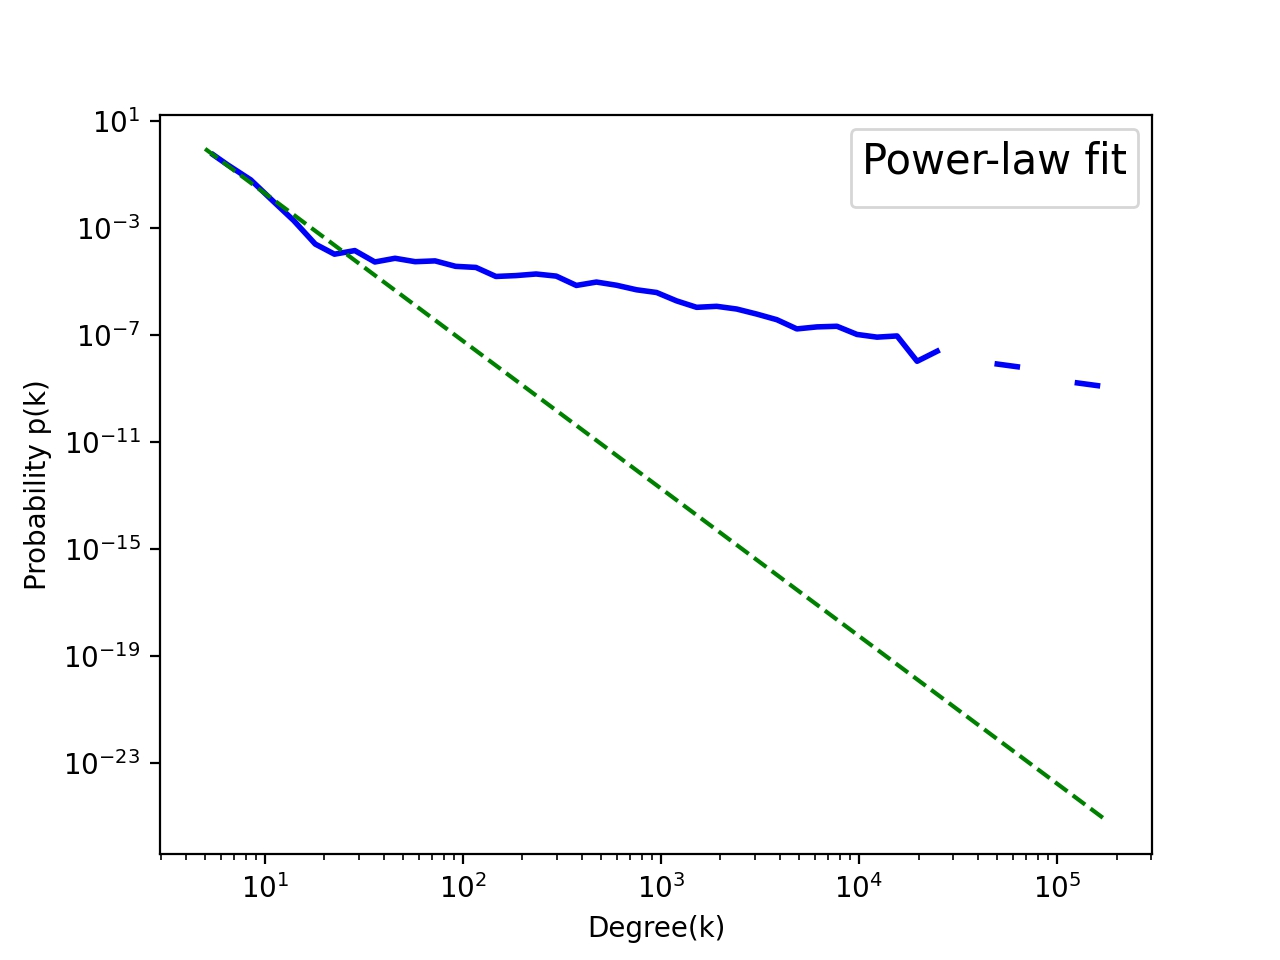
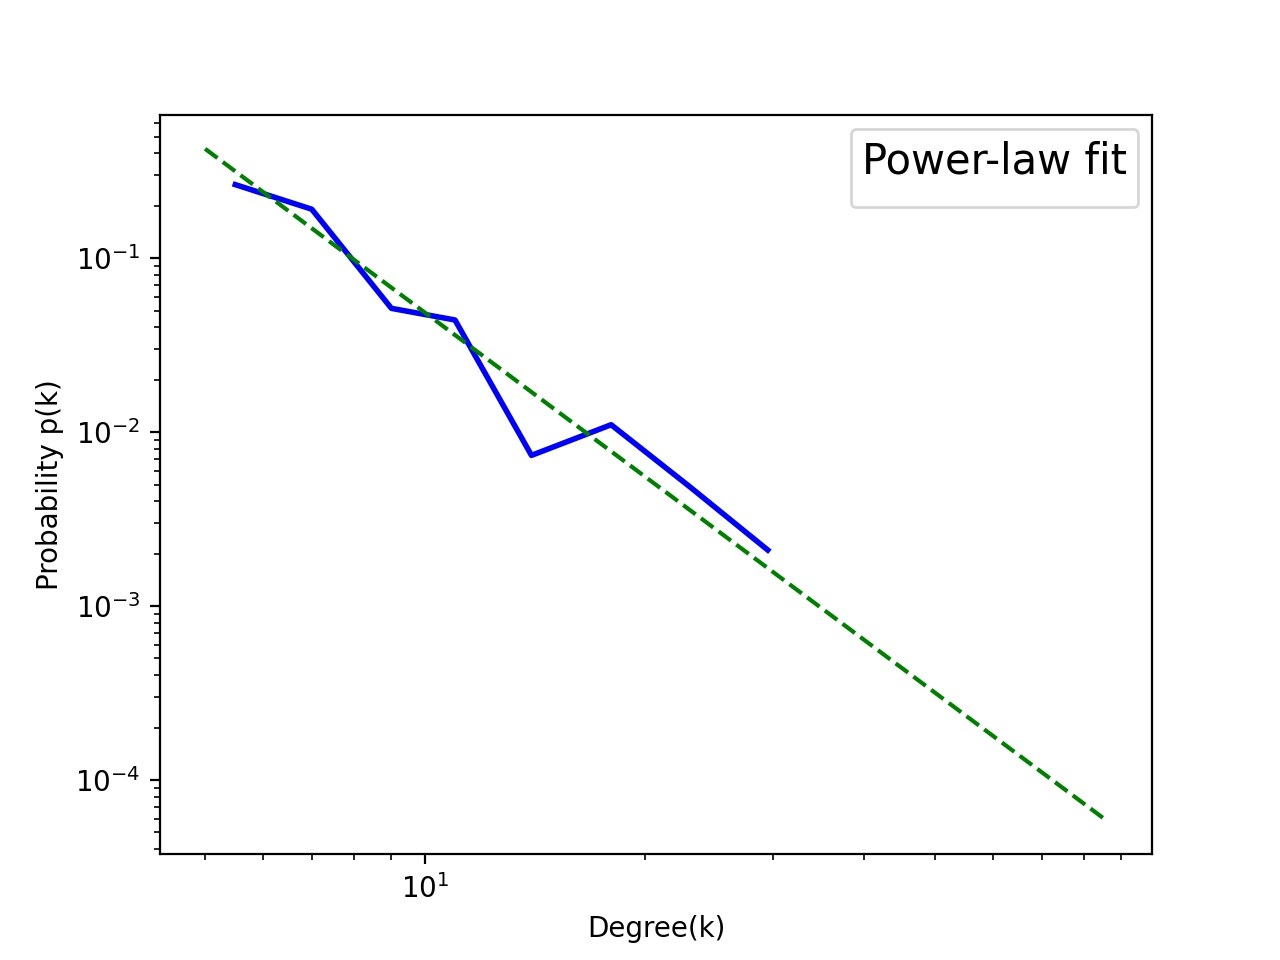
added power law

diff --git a/degree/printCharts.py b/degree/printCharts.py
@@ -6,7 +6,7 @@ import powerlaw # Power laws are probability distributions with the form:p(x)∝
 from degree.histogram import generateDegreeHistogram
 
 
-def printHistograms(G):
+def printHistograms(G, auth, app):
     print("Creating histogram...")
 
     degree_freq_app = generateDegreeHistogram(G, "app")
@@ -29,41 +29,53 @@ def printHistograms(G):
     plt.savefig("degree/histogram_author.jpg", dpi=200, pil_kwargs={'quality': 100})
     plt.close()
 
-    m, b, r_value, p_value, std_err = stats.linregress(degrees, degree_freq_app)
-    print("slope: "+str(m))
-    print("r-squared: "+str(r_value**2))
-    print("intercept:"+ str(b))
-    plot3 = plt.figure(figsize=(12, 8))
-    plt.plot(degrees, degree_freq_app, 'o',color = 'r')
-    abline_values = [m * i + b for i in degrees]
-    plt.plot(degrees, abline_values)
-    title = "Power-law distribution with -α = "+str(-1*m)
-    plt.legend(title=title, fontsize=10, title_fontsize=15)
-    plt.savefig("degree/power.jpg", dpi=200, pil_kwargs={'quality': 100})
-
-    degree_sequence = sorted([d for n, d in G.degree()], reverse=True)  # used for degree distribution and powerlaw test
-    plt.close()
-    fit = powerlaw.Fit(degree_sequence)
-    plot4 = fit.plot_pdf(color='b', linewidth=2)
-    fit.power_law.plot_pdf(color='g', linestyle='--', ax=plot4)
-    plt.legend(title="Power-law fit", fontsize=10, title_fontsize=15)
+    jaime = sorted([d for n, d in G.degree() if n in app])
+    plot6 = plt.figure(figsize=(12, 8))
+    degree_sequence = sorted([d for d in degrees], reverse=True)  # used for degree distribution and powerlaw test
+    fit = powerlaw.Fit(jaime, xmin=1)
+    fig2 = fit.plot_pdf(color='b', linewidth=2)
+    fit.power_law.plot_pdf(color='g', linestyle='--', ax=fig2)
+    plt.legend(title="Power-law fit Apps", fontsize=10, title_fontsize=15)
     plt.xlabel('Degree(k)')
     plt.ylabel('Probability p(k)')
-    plt.savefig("degree/power2.jpg", dpi=200, pil_kwargs={'quality': 100})
-    # compare
-    # where R is the likelihood ratio between the two candidate distributions. This number will be positive if the data is more likely in the first distribution, but you should also check p < 0.05
-    R, p = fit.distribution_compare('power_law', 'exponential', normalized_ratio=True)
-    print(R, p)
+    plt.savefig("degree/power_app.jpg", dpi=200, pil_kwargs={'quality': 100})
     plt.close()
 
-    plot5 = plt.figure(figsize=(10, 6))
-    fit.distribution_compare('power_law', 'log normal')
-    fig4 = fit.plot_ccdf(linewidth=3, color='black')
-    fit.power_law.plot_ccdf(ax=fig4, color='r', linestyle='--',label='Power-law')  # powerlaw
-    fit.lognormal.plot_ccdf(ax=fig4, color='g', linestyle='--',label='log normal')  # lognormal
-    fit.stretched_exponential.plot_ccdf(ax=fig4, color='b', linestyle='--',label='Exponential')  # stretched_exponential
+    jaime = sorted([d for n, d in G.degree() if n in auth])
+    plot7 = plt.figure(figsize=(12, 8))
+    degree_sequence = sorted([d for d in degrees], reverse=True)  # used for degree distribution and powerlaw test
+    fit = powerlaw.Fit(jaime, xmin=1)
+    fig2 = fit.plot_pdf(color='b', linewidth=2)
+    fit.power_law.plot_pdf(color='g', linestyle='--', ax=fig2)
+    plt.legend(title="Power-law fit Authors", fontsize=10, title_fontsize=15)
     plt.xlabel('Degree(k)')
     plt.ylabel('Probability p(k)')
-    plt.legend(plot5[:3], ['Power-law', 'log normal', 'Exponential'])
-    plt.savefig("degree/power3.jpg", dpi=200, pil_kwargs={'quality': 100})
+    plt.savefig("degree/power_auth.jpg", dpi=200, pil_kwargs={'quality': 100})
+    plt.close()
+
+    # degree_sequence = sorted([d for d in degree_freq_auth], reverse=True)  # used for degree distribution and powerlaw test
+    # plt.close()
+    # fit = powerlaw.Fit(degree_sequence)
+    # plot7 = fit.plot_pdf(color='b', linewidth=2)
+    # fit.power_law.plot_pdf(color='g', linestyle='--', ax=plot4)
+    # plt.legend(title="Power-law fit Author", fontsize=10, title_fontsize=15)
+    # plt.xlabel('Degree(k)')
+    # plt.ylabel('Probability p(k)')
+    # plt.savefig("degree/power_author.jpg", dpi=200, pil_kwargs={'quality': 100})
+    # # compare
+    # # where R is the likelihood ratio between the two candidate distributions. This number will be positive if the data is more likely in the first distribution, but you should also check p < 0.05
+    # R, p = fit.distribution_compare('power_law', 'exponential', normalized_ratio=True)
+    # print(R, p)
+    # plt.close()
+
+#     plot5 = plt.figure(figsize=(12, 8))
+#     fit.distribution_compare('power_law', 'lognormal')
+#     fig4 = fit.plot_ccdf(linewidth=3, color='black')
+#     fit.power_law.plot_ccdf(ax=fig4, color='r', linestyle='--',label='Power-law')  # powerlaw
+#     fit.lognormal.plot_ccdf(ax=fig4, color='g', linestyle='--',label='log normal')  # lognormal
+#     fit.stretched_exponential.plot_ccdf(ax=fig4, color='b', linestyle='--',label='Exponential')  # stretched_exponential
+#     plt.xlabel('Degree(k)')
+#     plt.ylabel('Probability p(k)')
+# #    plt.legend(plot5[:3], ['Power-law', 'log normal', 'Exponential'])
+#     plt.savefig("degree/power3.jpg", dpi=200, pil_kwargs={'quality': 100})
 

diff --git a/TNA.py b/TNA.py
@@ -170,7 +170,7 @@ def TNAfunc(path, names):
     print("Network density:", density)
     topologyStatisticsFile.write("Network density: " + str(density))
     degree_dict = dict(G.degree(G.nodes()))
-    # remove invalid authors with zero reviews
+#    remove invalid authors with zero reviews
 
     appHighestDegree = str(list(degreeOfApp[0])[0]) + " - " + str(list(degreeOfApp[0])[1])
     authorHighestDegree = str(list(degreeOfAuthors[0])[0]) + " - " + str(list(degreeOfAuthors[0])[1])
@@ -208,7 +208,7 @@ def TNAfunc(path, names):
     colors = nx.get_edge_attributes(G, 'color').values()
 
     print("Graph completed!")
-    #printHistograms(G)
+    printHistograms(G, authListHash2.keys(), listWithAllAppsHash.keys())
 
 
     # print("Map to layout (takes time)...")

diff --git a/README.md b/README.md
@@ -58,5 +58,9 @@ In order to execute this script and have the network `G`, just execute the `main
 </div>
 Power-law distribution over the app degree:
 <div>
-<img src="degree/power2.jpg" width="400px"</img> 
+<img src="degree/power_app.jpg" width="400px"</img> 
+</div>
+Power-law distribution over the auth degree:
+<div>
+<img src="degree/power_auth.jpg" width="400px"</img> 
 </div>
